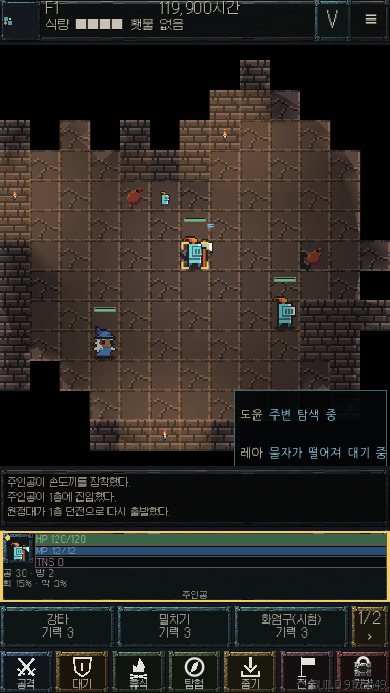
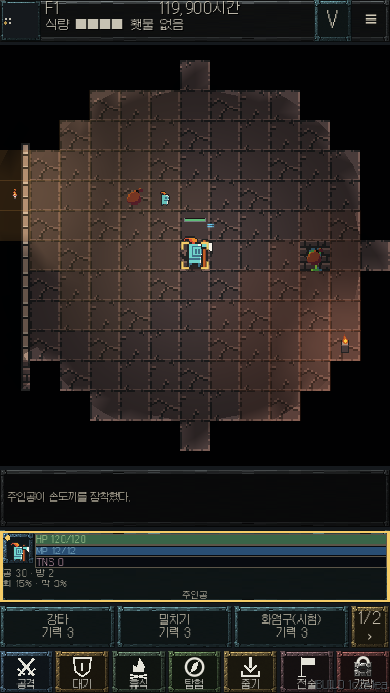
Start new runs in dungeon and select directional 0x72 walls

diff --git a/docs/DUNGEON_0X72_SKIN.ko.md b/docs/DUNGEON_0X72_SKIN.ko.md
@@ -28,3 +28,11 @@
 - `godot --headless --path . --script tests/mobile_combat_loot_torch_acceptance.gd`: `MOBILE COMBAT LOOT TORCH: PASS`.
 - 390×844 화면을 실제 렌더링하고 비율과 장비 표시를 확인했다: [던전](previews/0x72-dungeon-mobile.png), [인벤토리](previews/0x72-inventory-mobile.png).
 - 데스크톱 소프트웨어 렌더러에서 확인한 결과다. 모바일 실기기 FPS나 웹 배포 완료를 의미하지 않는다.
+
+## 후속 수정: 던전 직행과 벽 방향
+
+- 종족 선택 직후 호출하던 마을 `START` 명령을 제거했다. 새 원정은 이미 생성된 던전 1층에서 시작한다. 마을 시스템 자체나 기존 저장 데이터의 위치는 변경하지 않는다.
+- 모든 벽을 `wall_mid`로 그리던 매핑을 수정했다. 관측된 주변 바닥 방향에 따라 정면, 상단, 얇은 좌우 측면과 대각선 모서리 원본 타일을 선택한다.
+- 미탐색 이웃의 지형은 타일 선택에 사용하지 않는다. 기억된 지형은 사용한다. 물리 충돌과 시야 판정의 한 칸 벽 크기는 유지한다.
+- 기존 지형 투영 갱신에서만 선택하고 retained chunk의 기존 region 서명으로 변경을 감지한다. 프레임별 전체 맵 스캔이나 새로운 다시 그리기 타이머는 추가하지 않았다.
+- 에셋 검증에 실제 종족 선택 → 던전 1층 진입, 벽 방향, 기억/미탐색 경계 검사를 추가했다.
